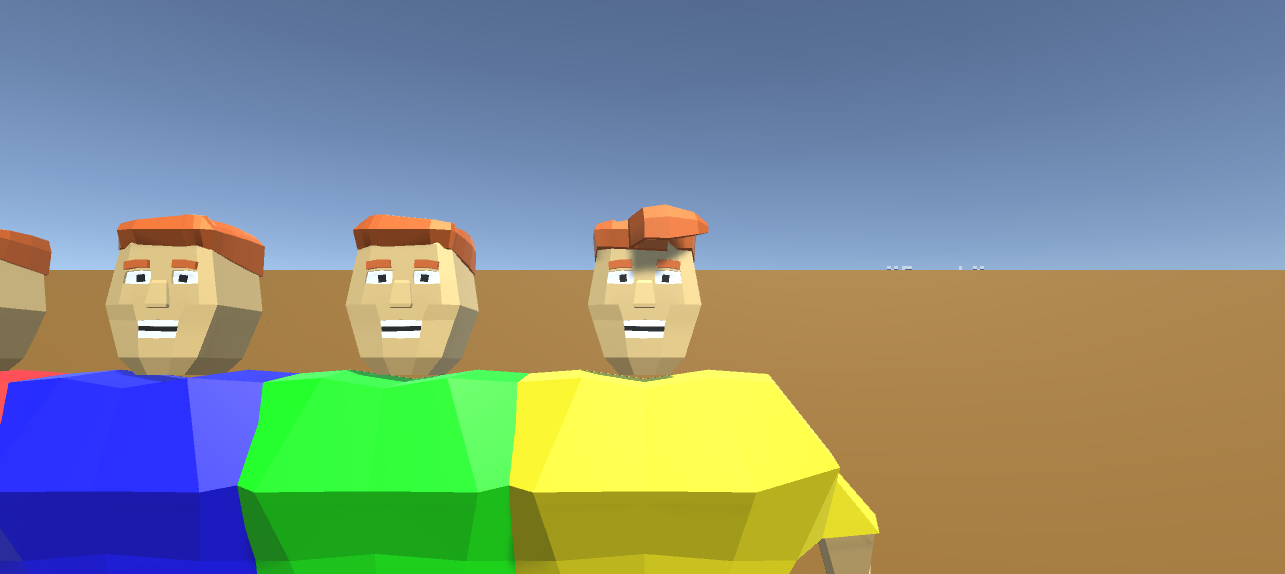
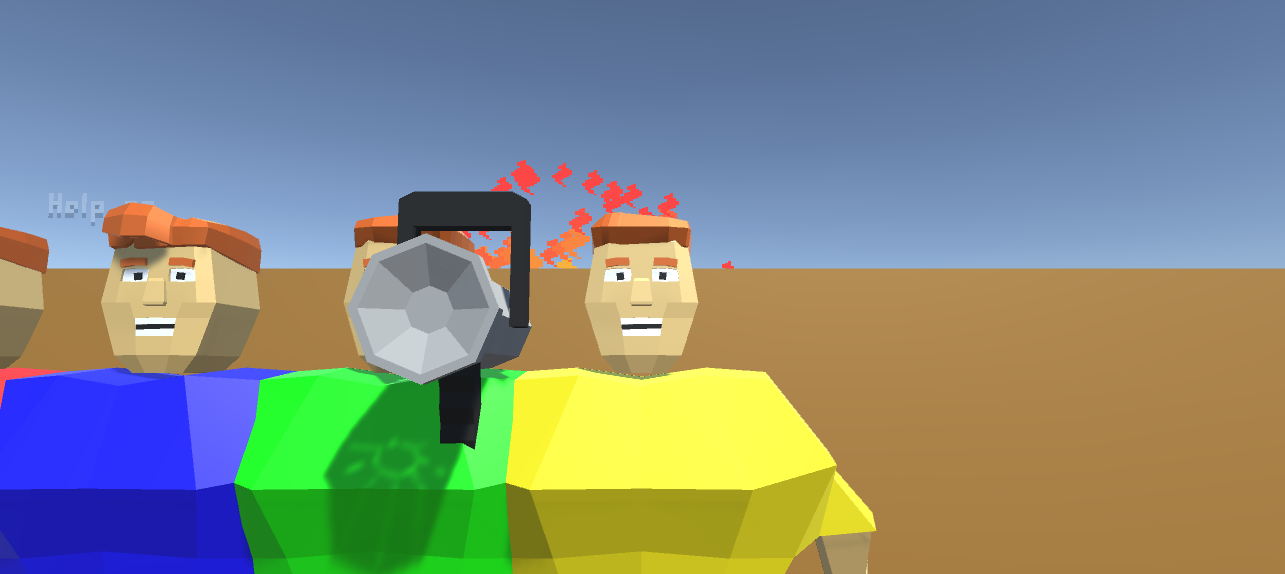
Hose Detach on Game Over
When the game ends, the players get teleported. This can cause problems
when a player is holding the nozzle as it pulls when too far away.

The nozzle detaches from the hose when the game ends. It creates a fake
gameobject to look at that replaces the nozzle model.

diff --git a/Assets/Scripts/HoseBuilder.cs b/Assets/Scripts/HoseBuilder.cs
@@ -20,6 +20,8 @@ public class HoseBuilder : MonoBehaviour {
 	public HoseSegment hoseSegment;
 
     HoseSegment first;
+    HoseSegment last;
+
 
     // Mesh
     Mesh mesh;
@@ -72,11 +74,15 @@ public class HoseBuilder : MonoBehaviour {
 			}
 
 		}
+        last = copy;
 		copy.hoseType = HoseSegment.HoseType.End;
 		copy.next = nozzle;
         // Nozzle is larger than segments; give it more space
         copy.minSeparation *= 2;
         nozzle.parent.transform.position = copy.transform.position + new Vector3((minSeparation + 0.1f) * 2, 0.6f, 0);
+
+
+        FindObjectOfType<GameManager>().GameOver += DetachNozzle;
 	}
 	
 	// Update is called once per frame
@@ -84,6 +90,19 @@ public class HoseBuilder : MonoBehaviour {
         transform.rotation = Quaternion.identity;
         UpdateMesh();
         
+    }
+
+    void DetachNozzle()
+    {
+        // when the players get teleprted, if one has the nozzle, it causes problems
+        // let them keep the nozzle, but remove the hose
+        // The hose stays where it is with this fake transform for it to point to
+        GameObject fakeTrans = new GameObject("Fake");
+        fakeTrans.transform.position = nozzle.position;
+        // change nozzle to fake to stop drawing the mesh to the real nozzle
+        nozzle = fakeTrans.transform;
+        // change first.next to fake to stop the segements pulling the player
+        last.GetComponent<HoseSegment>().next = fakeTrans.transform;
     }
 
     void UpdateMesh()

diff --git a/Assets/Scripts/GameManager.cs b/Assets/Scripts/GameManager.cs
@@ -1,6 +1,7 @@
 using System.Collections;
 using System.Collections.Generic;
 using UnityEngine;
+using System;
 
 public class GameManager : MonoBehaviour {
 
@@ -45,8 +46,10 @@ public class GameManager : MonoBehaviour {
     Vector3 minPlayerPos;
     Vector3 maxPlayerPos;
 
-	// Use this for initialization
-	void Start () {
+    public event Action GameOver;
+
+    // Use this for initialization
+    void Start () {
 		SpawnPlayers ();
 		house.AllFiresPutOut += AllFiresPutOut;
 		house.AllVictimsRescued += AllVictimsRescued;
@@ -65,7 +68,9 @@ public class GameManager : MonoBehaviour {
 		}
         */
 		if (Input.GetButtonDown ("Fire3")) {
-			TeleportPlayers ();
+            //TeleportPlayers ();
+            GameWon();
+            //Debug.Break();
 		}
 
 		// Joysticks are in the order they were plugged in
@@ -287,11 +292,19 @@ public class GameManager : MonoBehaviour {
 	void GameWon()
 	{
 		Debug.Log ("Game Won");
+        if(GameOver != null)
+        {
+            GameOver();
+        }
 		TeleportPlayers ();
 	}
 
 	void HouseDestroyedByFire(int blocksDestroyed, int totalBlocks)
 	{
+        if(GameOver != null)
+        {
+            GameOver();
+        }
 		Debug.Log ("Game Lost");
 		TeleportPlayers ();
 

diff --git a/Assets/Scripts/HoseSegment.cs b/Assets/Scripts/HoseSegment.cs
@@ -84,7 +84,10 @@ public class HoseSegment : MonoBehaviour {
             // part attached to the nozzle
             if (Vector3.Distance(transform.position, next.position) > maxSeparation)
             {
-                next.GetComponentInParent<Rigidbody>().AddForce((transform.position - next.position) * force);
+                if (next.GetComponentInParent<Rigidbody>() != null)
+                {
+                    next.GetComponentInParent<Rigidbody>().AddForce((transform.position - next.position) * force);
+                }
             }
         }
         /*
